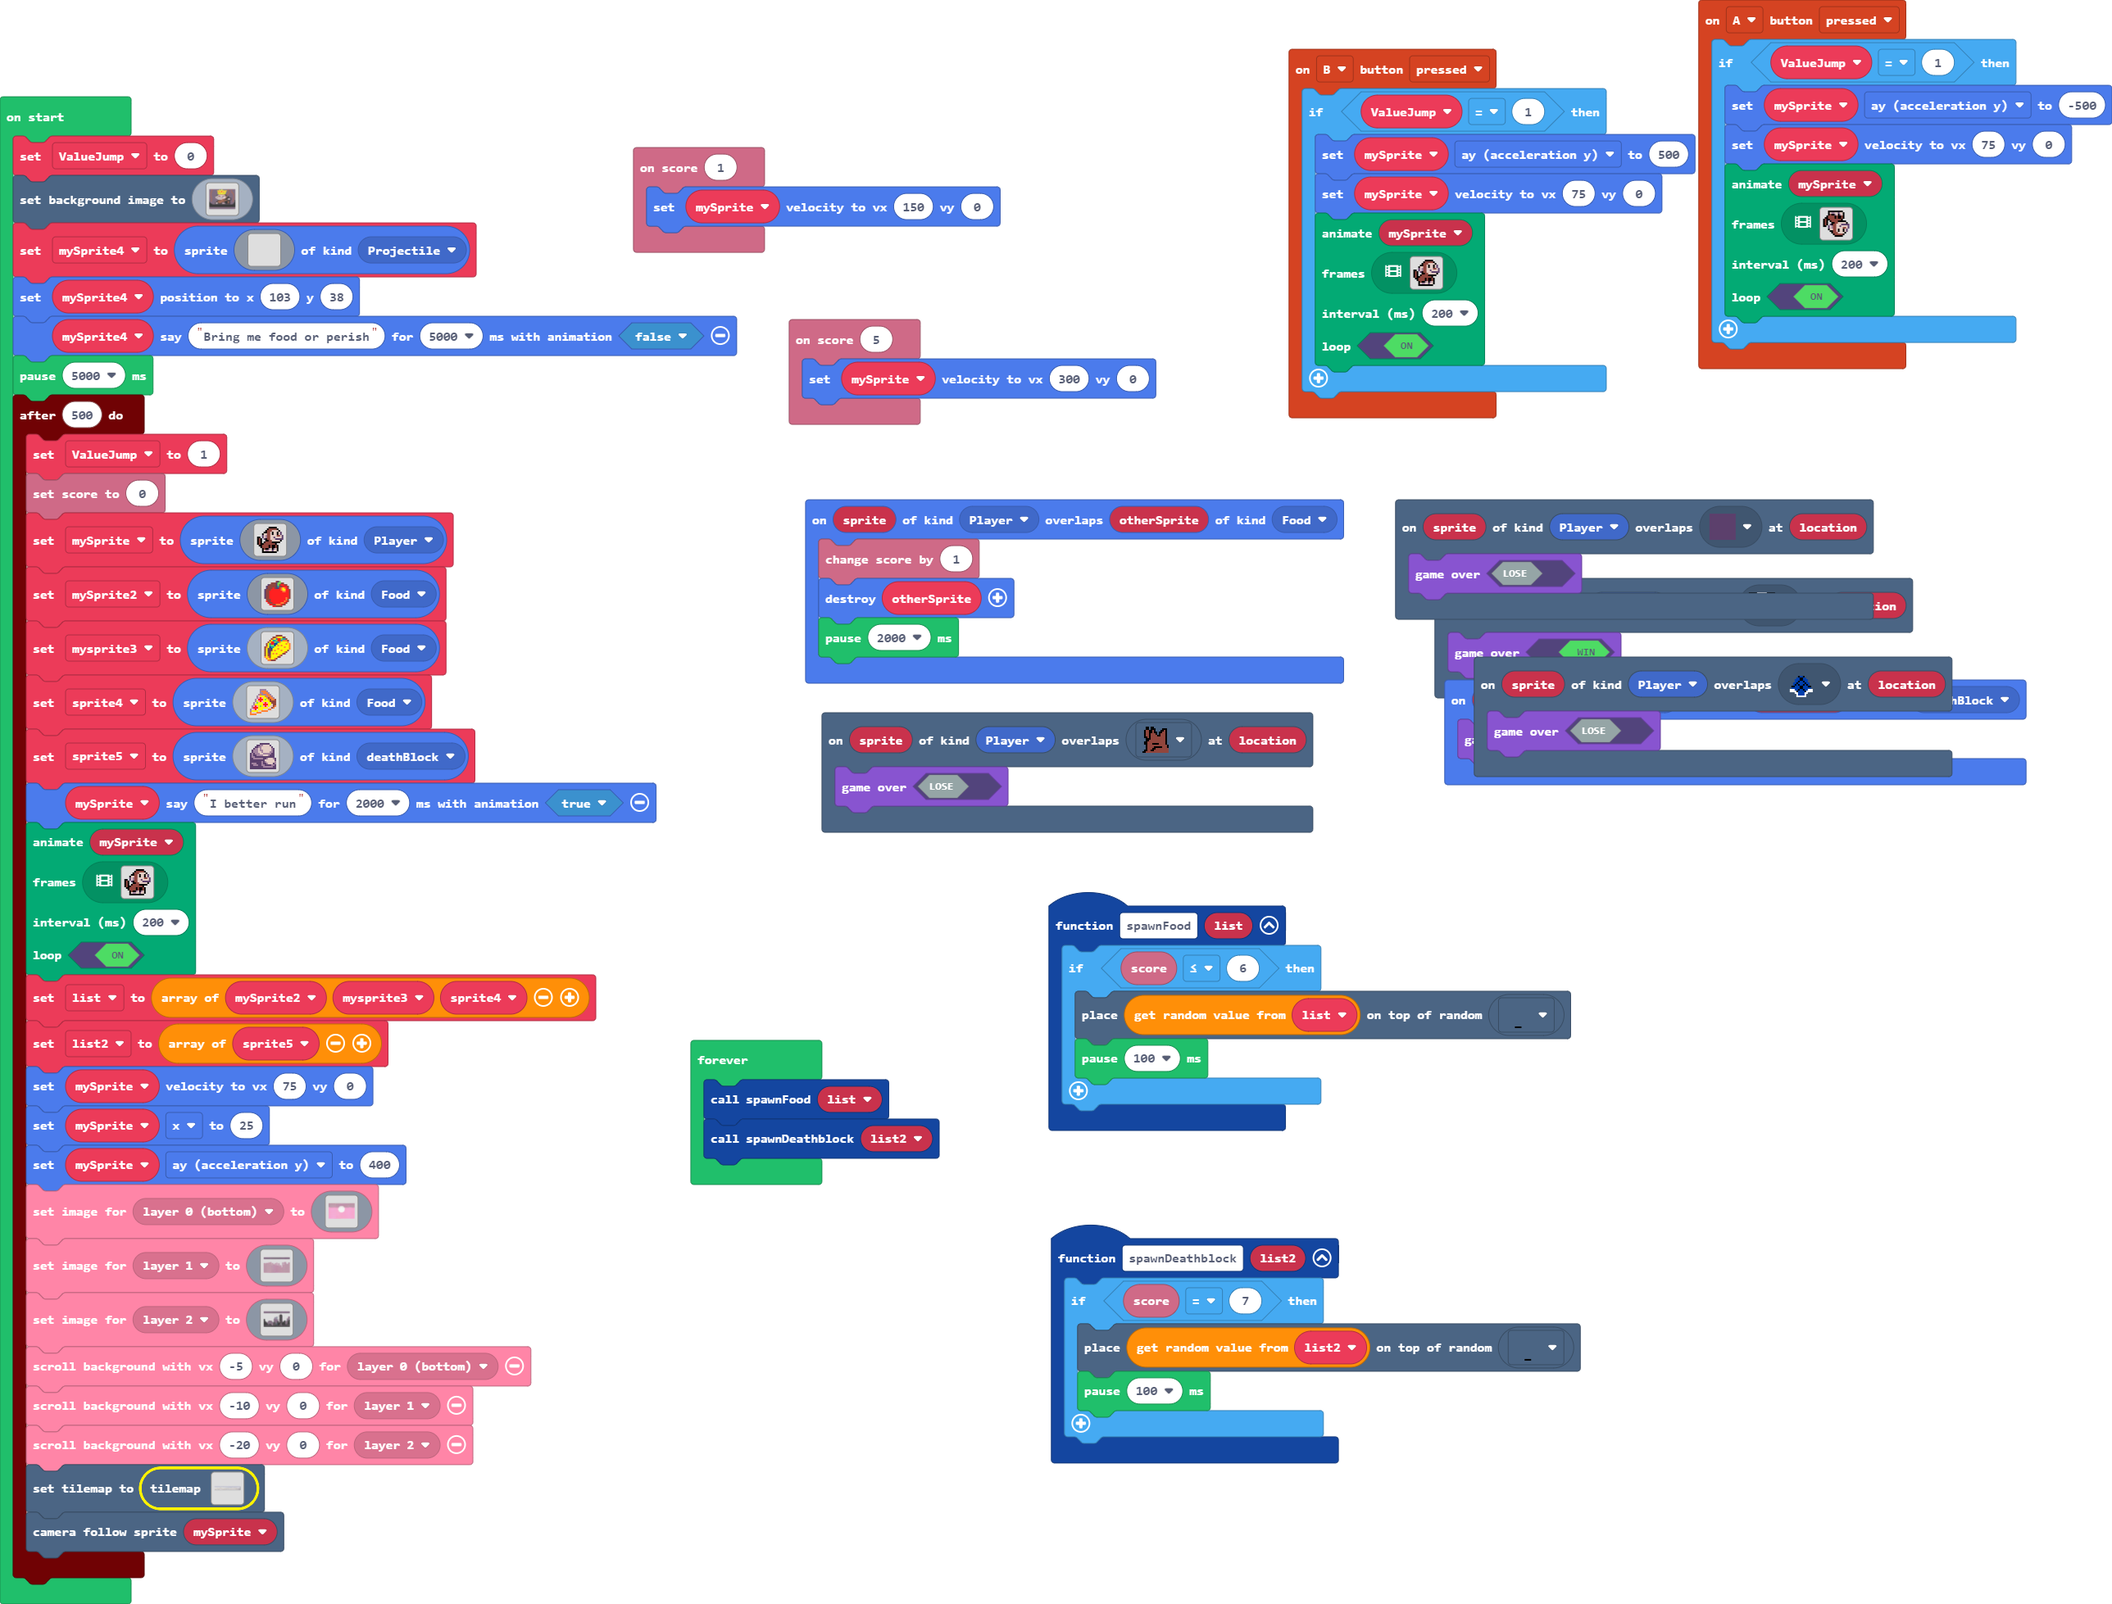
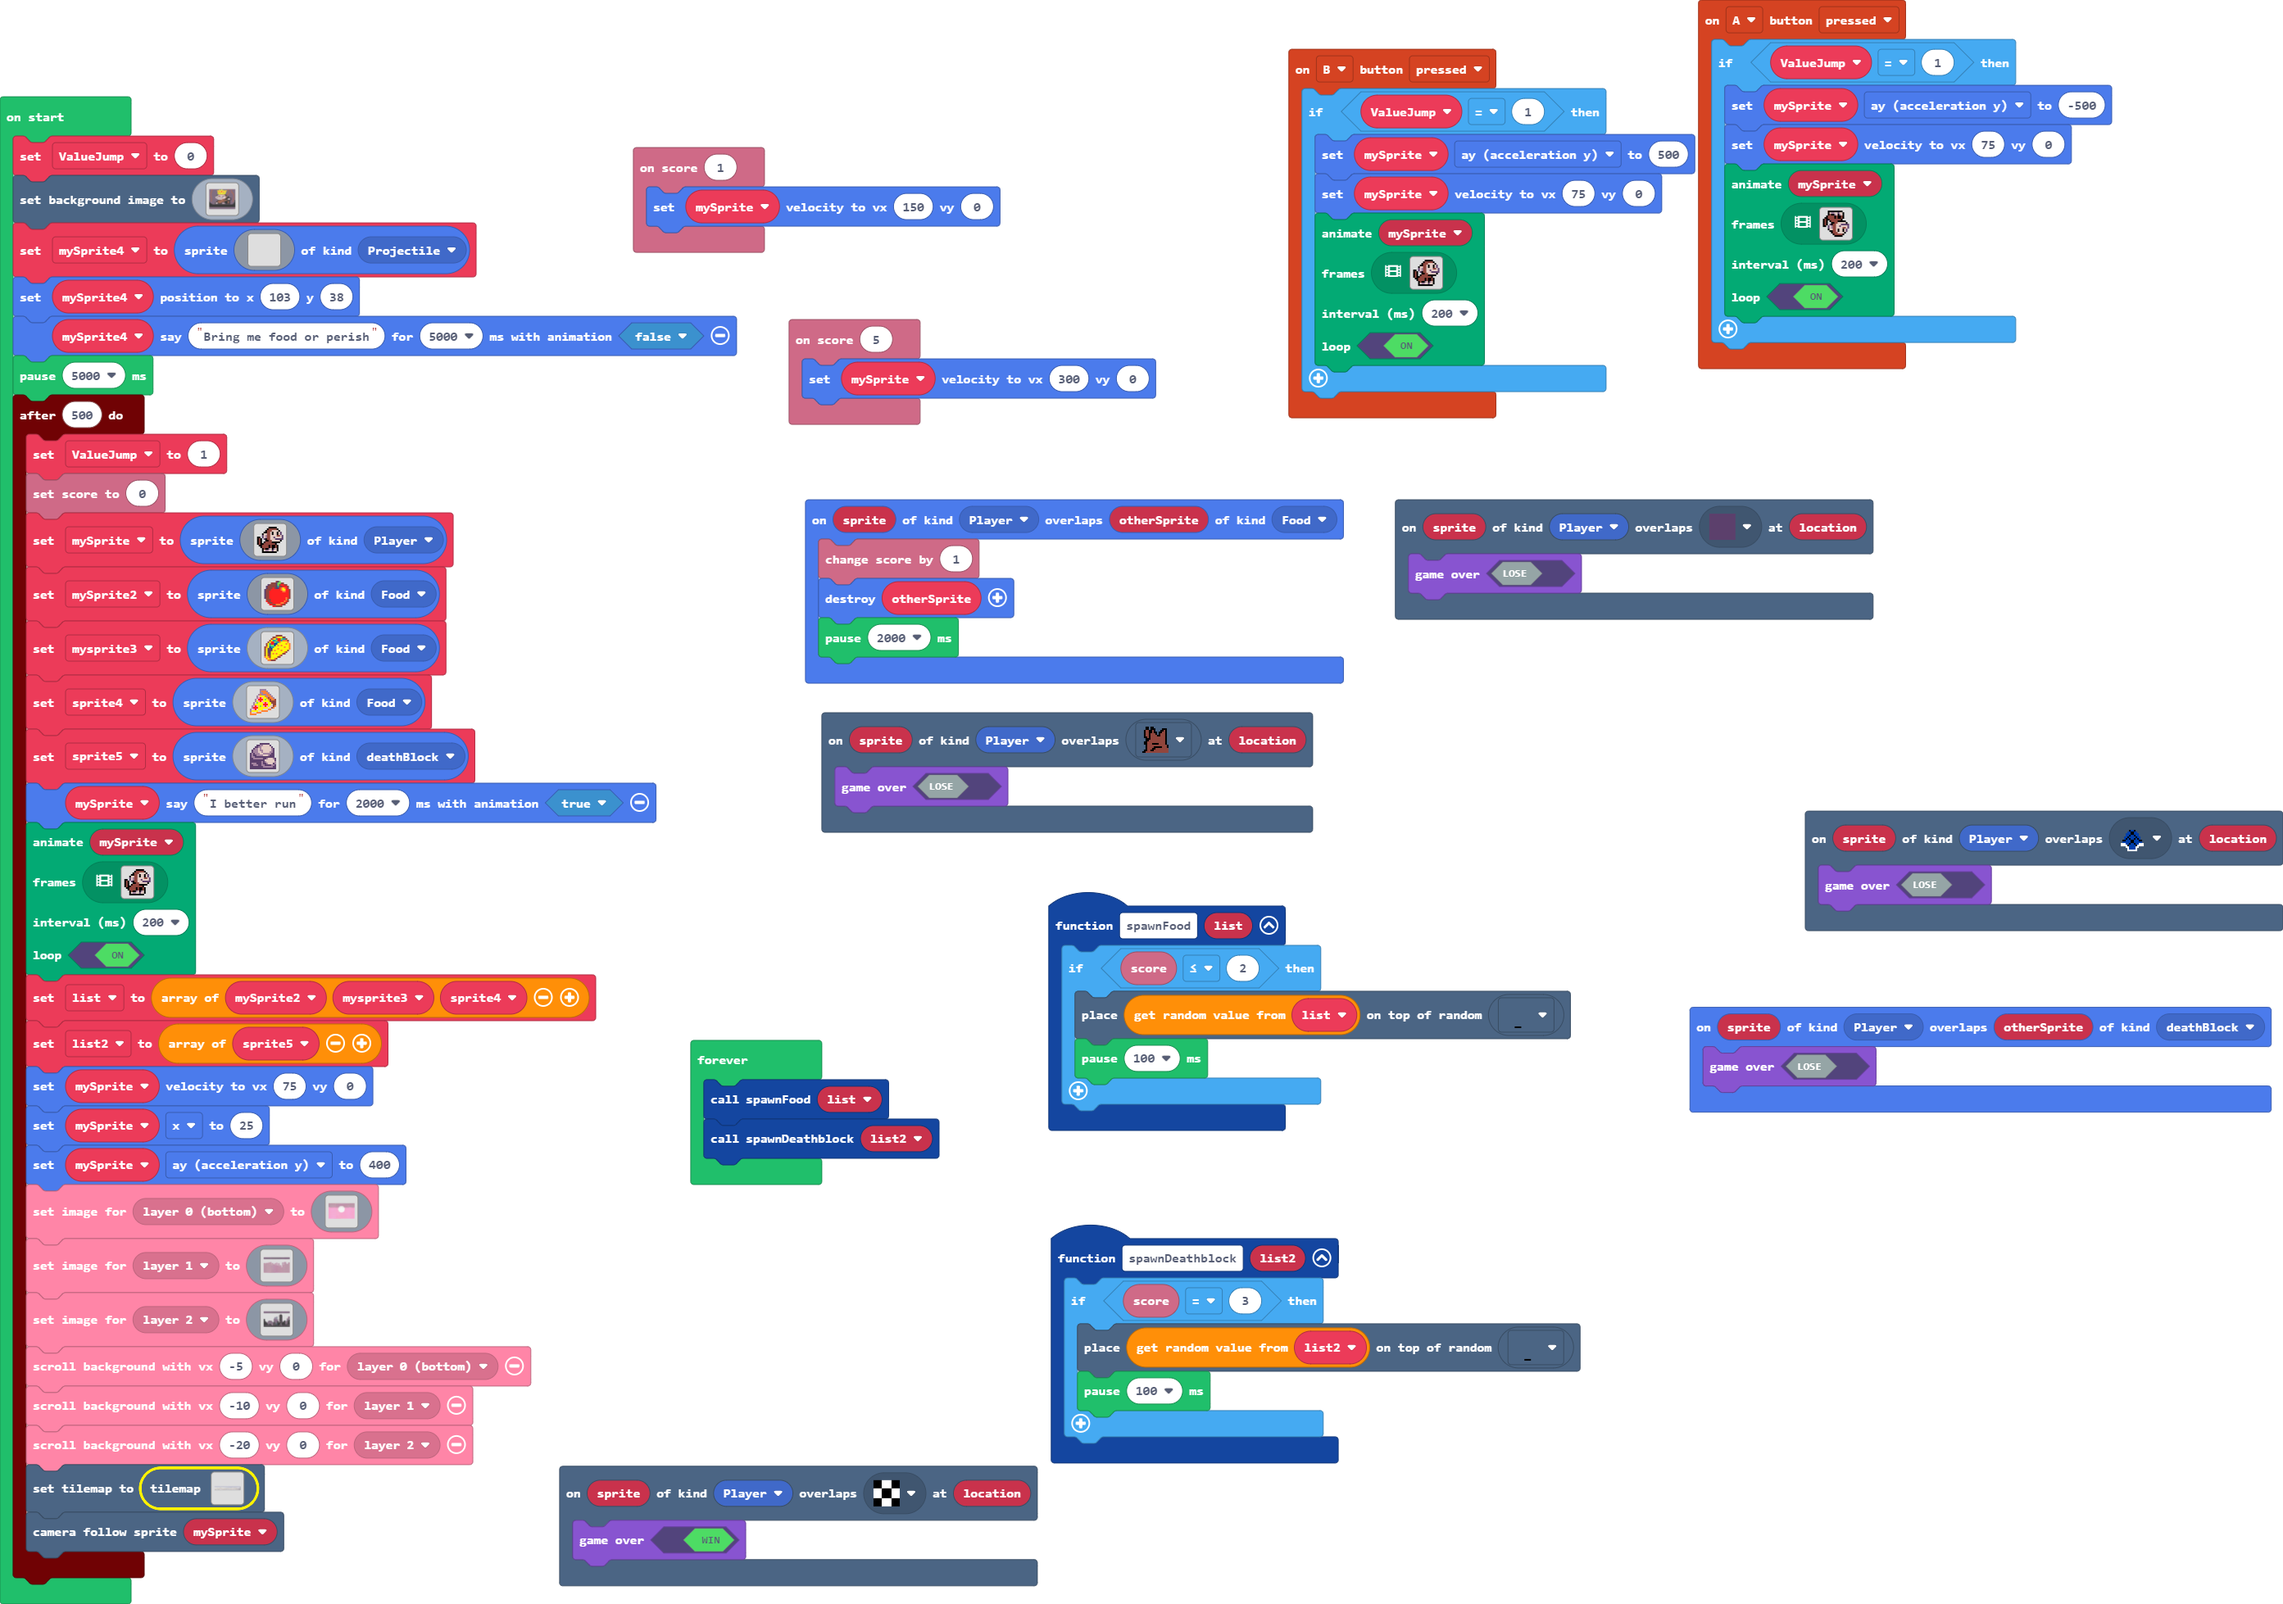
Update main.blocks, main.ts, tilemap.g.jres, tilemap.g.ts

diff --git a/tilemap.g.ts b/tilemap.g.ts
@@ -158,8 +158,27 @@ namespace myTiles {
 . . . . . . . . . . . . . . . . 
 . . . . . . . . . . . . . . . . 
 `, [myTiles.transparency16], TileScale.Sixteen);
+            case "level9":
+            case "level9":return tiles.createTilemap(hex`1000100000000000000000000000000000000000000000000000000000000000000000000000000000000000000000000000000000000000000000000000000000000000000000000000000000000000000000000000000000000000000000000000000000000000000000000000000000000000000000000000000000000000000000000000000000000000000000000000000000000000000000000000000000000000000000000000000000000000000000000000000000000000000000000000000000000000000000000000000000000000000000000000000000000000000000000000000000000000000000000000000000000000000000000000000000000000`, img`
+. . . . . . . . . . . . . . . . 
+. . . . . . . . . . . . . . . . 
+. . . . . . . . . . . . . . . . 
+. . . . . . . . . . . . . . . . 
+. . . . . . . . . . . . . . . . 
+. . . . . . . . . . . . . . . . 
+. . . . . . . . . . . . . . . . 
+. . . . . . . . . . . . . . . . 
+. . . . . . . . . . . . . . . . 
+. . . . . . . . . . . . . . . . 
+. . . . . . . . . . . . . . . . 
+. . . . . . . . . . . . . . . . 
+. . . . . . . . . . . . . . . . 
+. . . . . . . . . . . . . . . . 
+. . . . . . . . . . . . . . . . 
+. . . . . . . . . . . . . . . . 
+`, [myTiles.transparency16], TileScale.Sixteen);
             case "level3":
[2 lines of base64/hex data omitted]
 2..............................................................................................................................................................................................................................................................
 ...............................................................................................................................................................................................................................................................
 ...............................................................................................................................................................................................................................................................

diff --git a/main.ts b/main.ts
@@ -105,7 +105,7 @@ scene.onOverlapTile(SpriteKind.Player, assets.tile`myTile`, function (sprite, lo
     game.gameOver(false)
 })
 function spawnFood (list: Sprite[]) {
-    if (info.score() <= 6) {
+    if (info.score() <= 2) {
         tiles.placeOnRandomTile(list._pickRandom(), assets.tile`myTile3`)
         pause(100)
     }
@@ -214,7 +214,7 @@ sprites.onOverlap(SpriteKind.Player, SpriteKind.deathBlock, function (sprite, ot
     game.gameOver(false)
 })
 function spawnDeathblock (list2: Sprite[]) {
-    if (info.score() == 7) {
+    if (info.score() == 3) {
         tiles.placeOnRandomTile(list2._pickRandom(), assets.tile`myTile3`)
         pause(100)
     }
